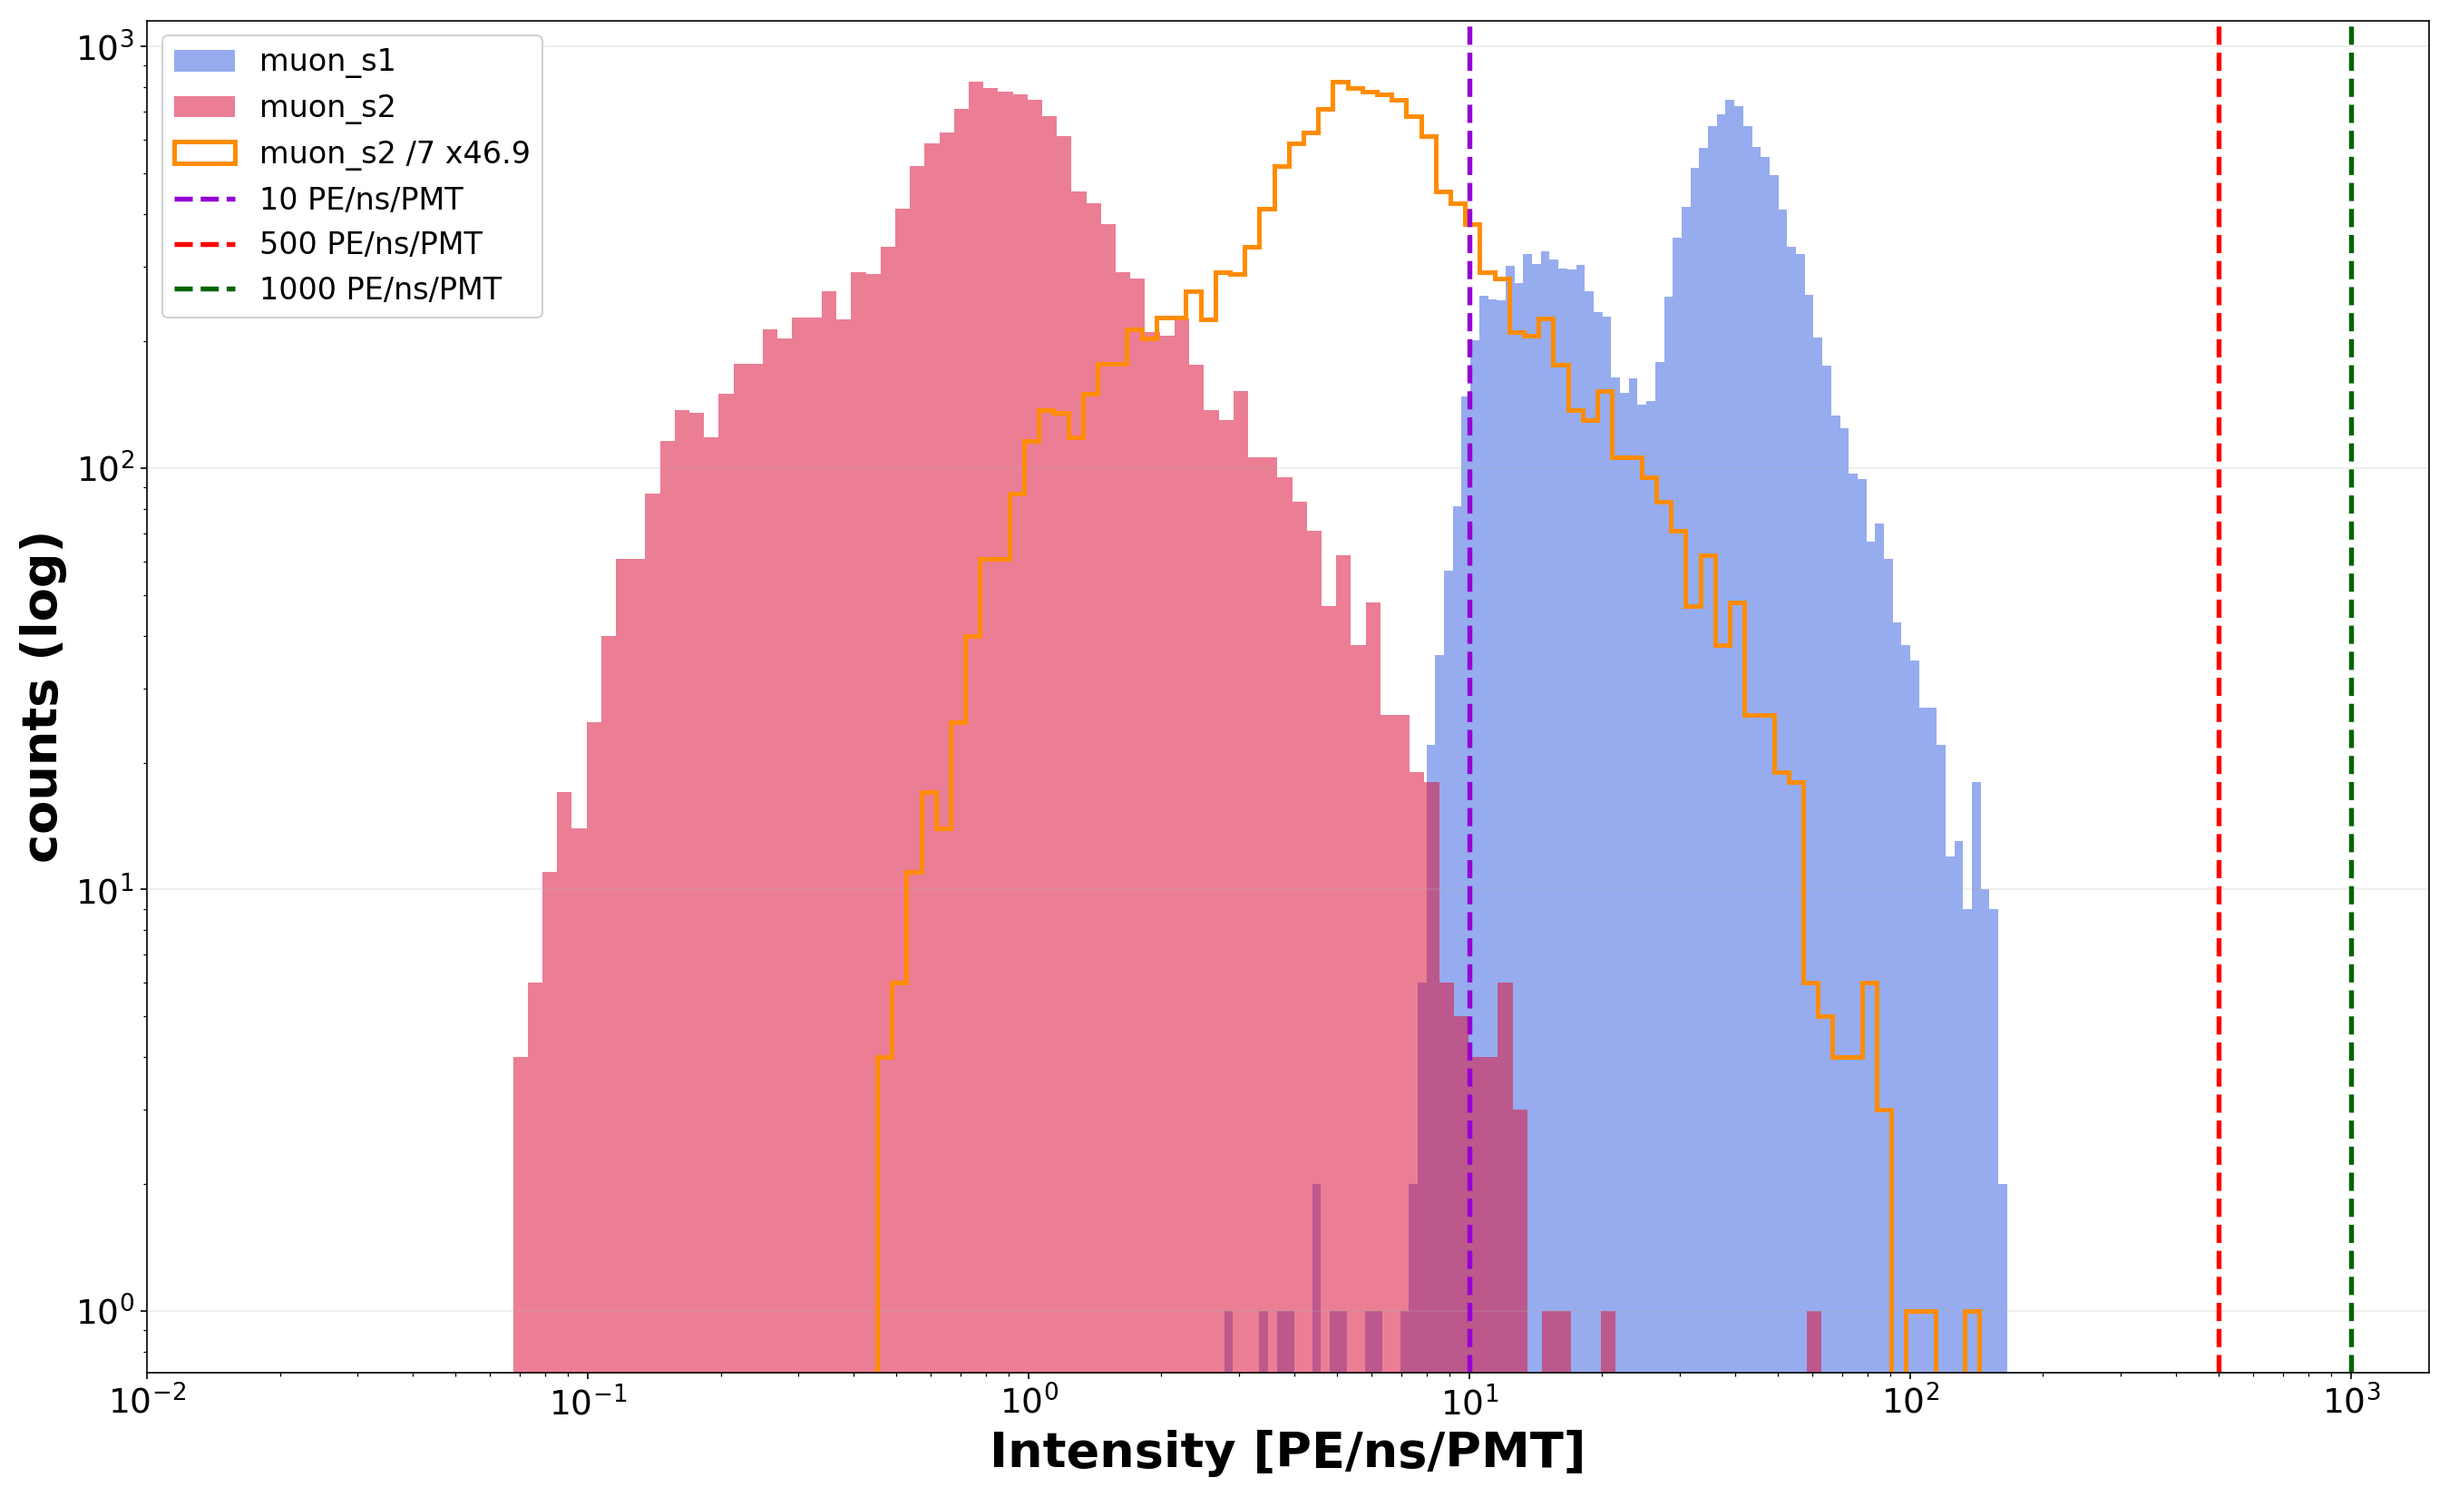
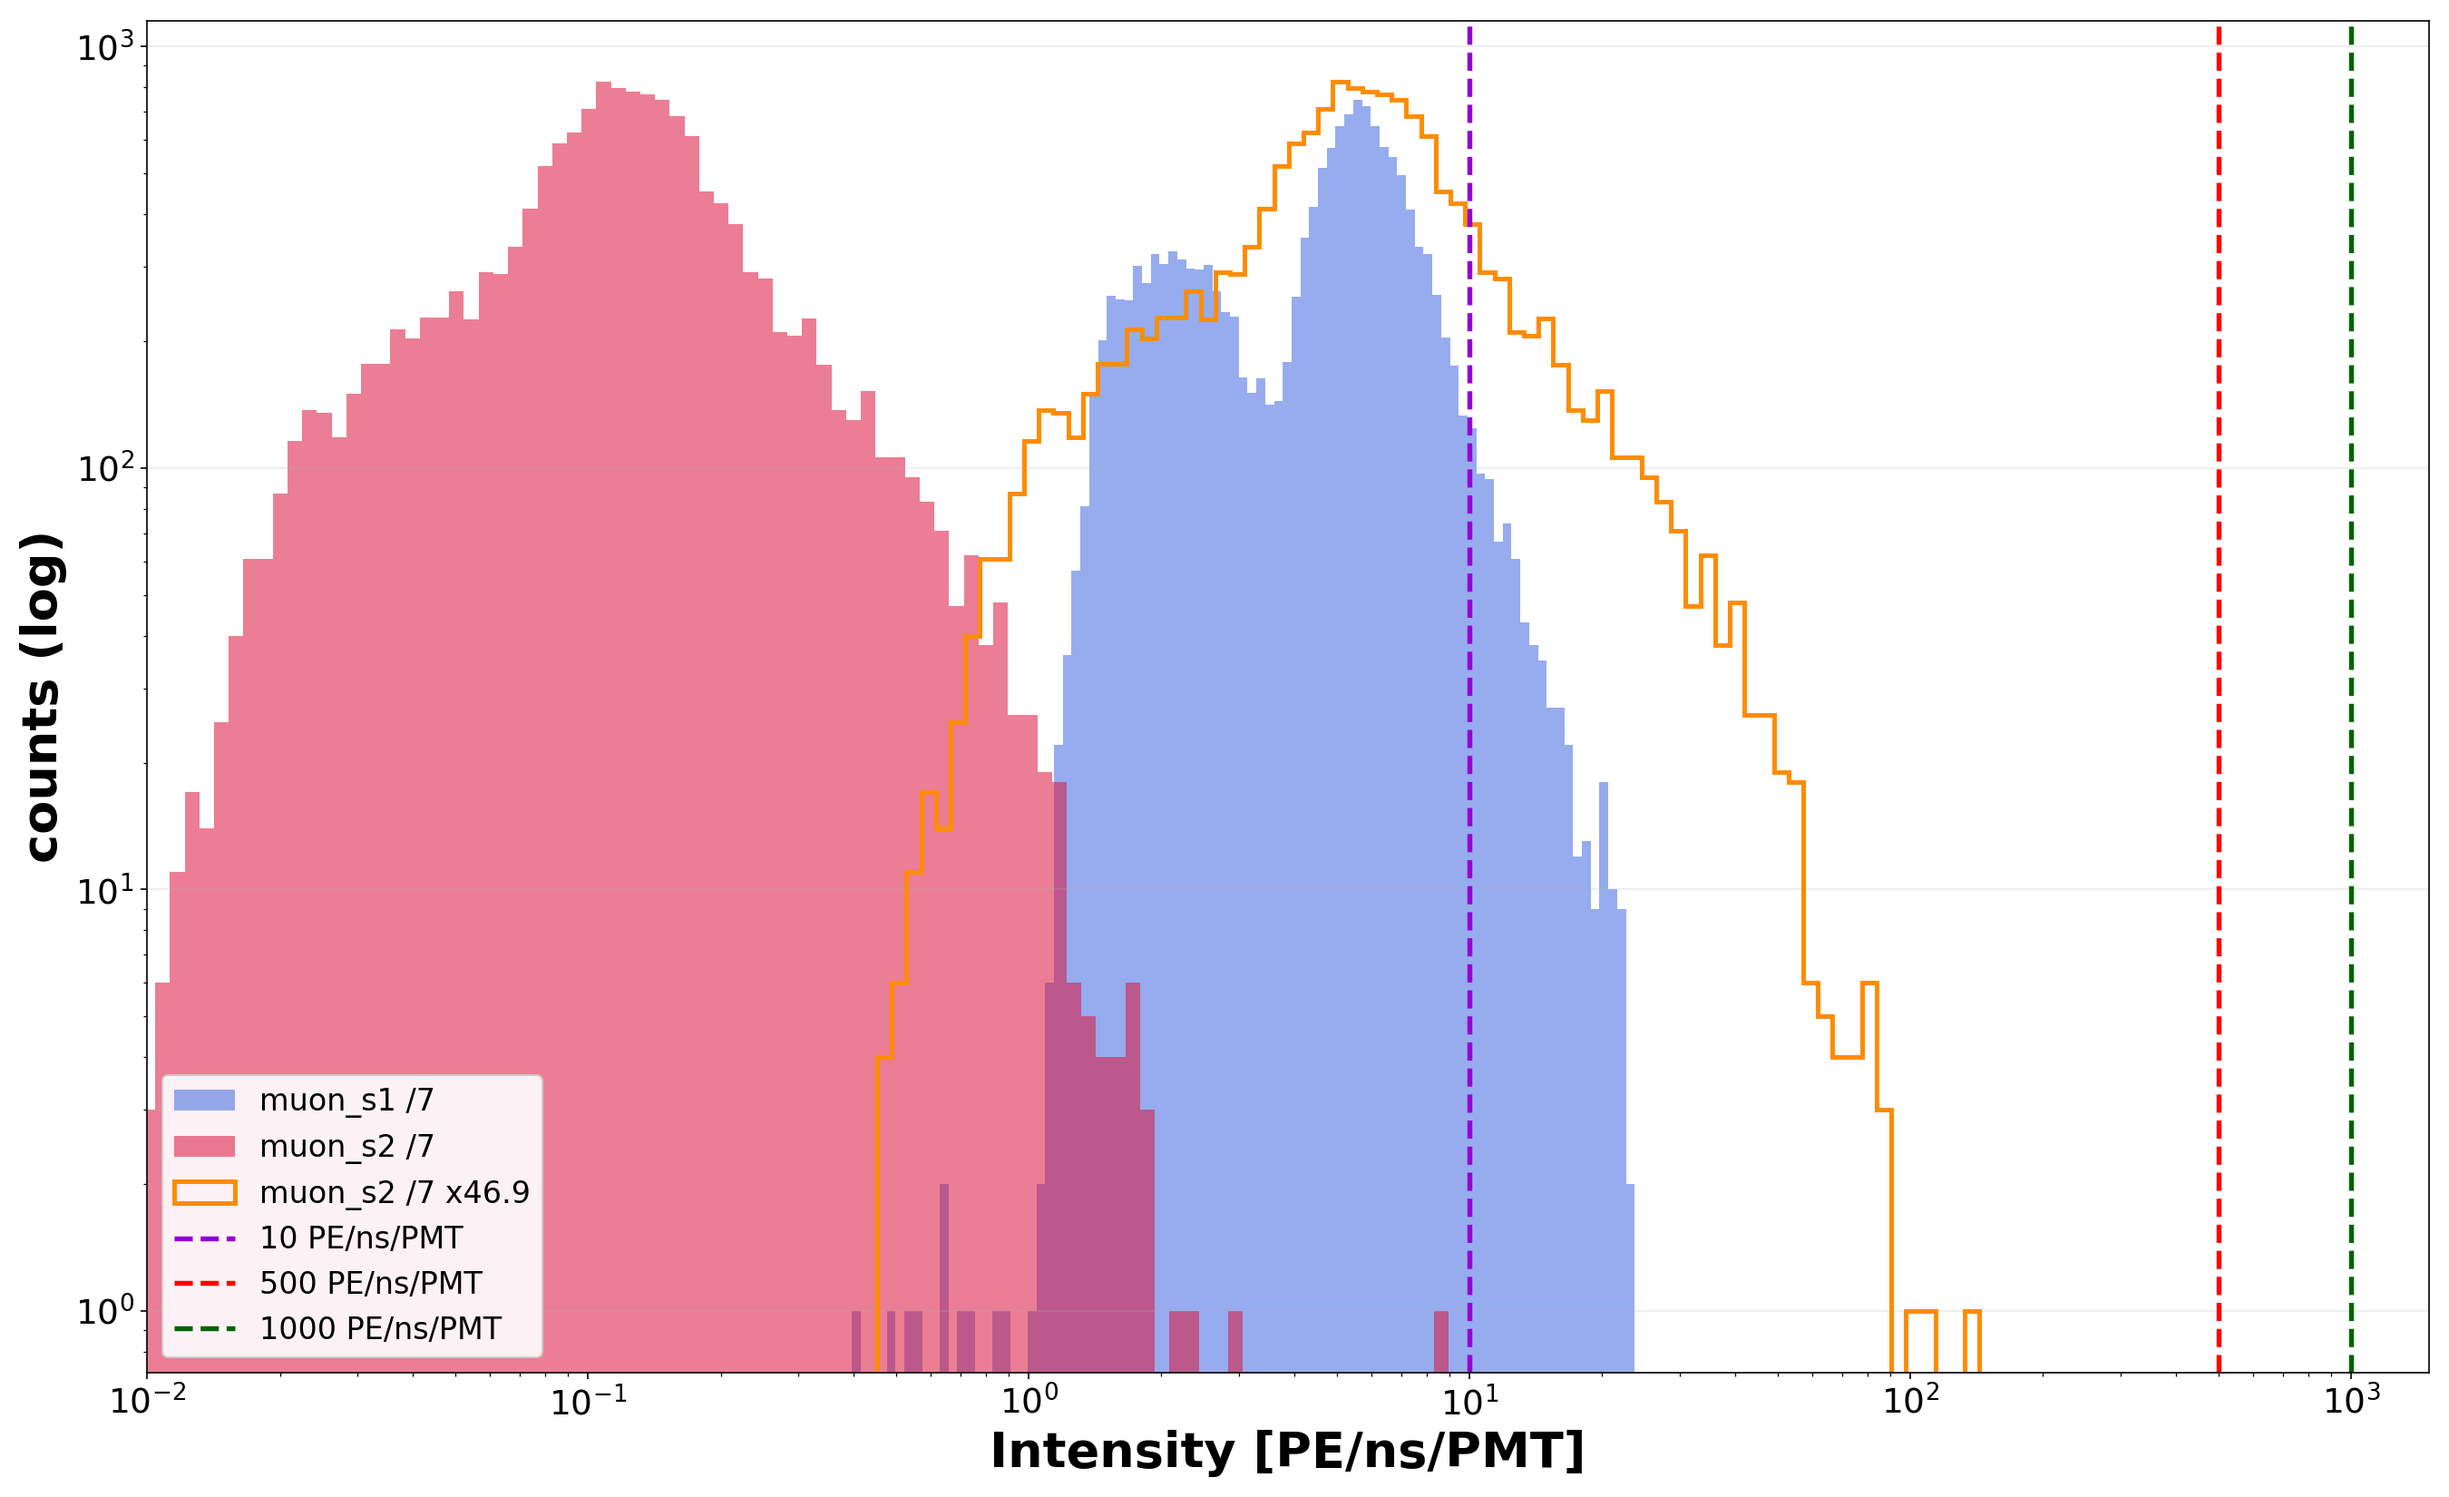
Divide raw muon_s1/muon_s2 intensity by 7 so all curves share PE/ns/PMT units

diff --git a/scripts/plot_muon_s1s2_params.py b/scripts/plot_muon_s1s2_params.py
@@ -136,8 +136,8 @@ s2_int = s2_raw / N_PMT * SCALE_S2
 def draw_intensity(yscale, name):
     fig, ax = plt.subplots(figsize=(18, 11))
     curves = [
-        (s1_raw, "royalblue", "muon_s1", "stepfilled", 0.55),
-        (s2_raw, "crimson", "muon_s2", "stepfilled", 0.55),
+        (s1_raw / N_PMT, "royalblue", "muon_s1 /7", "stepfilled", 0.55),
+        (s2_raw / N_PMT, "crimson", "muon_s2 /7", "stepfilled", 0.55),
         (s2_int, "darkorange", f"muon_s2 /7 x{SCALE_S2:g}", "step", 1.0),
     ]
     for v, color, lab, htype, alpha in curves:
